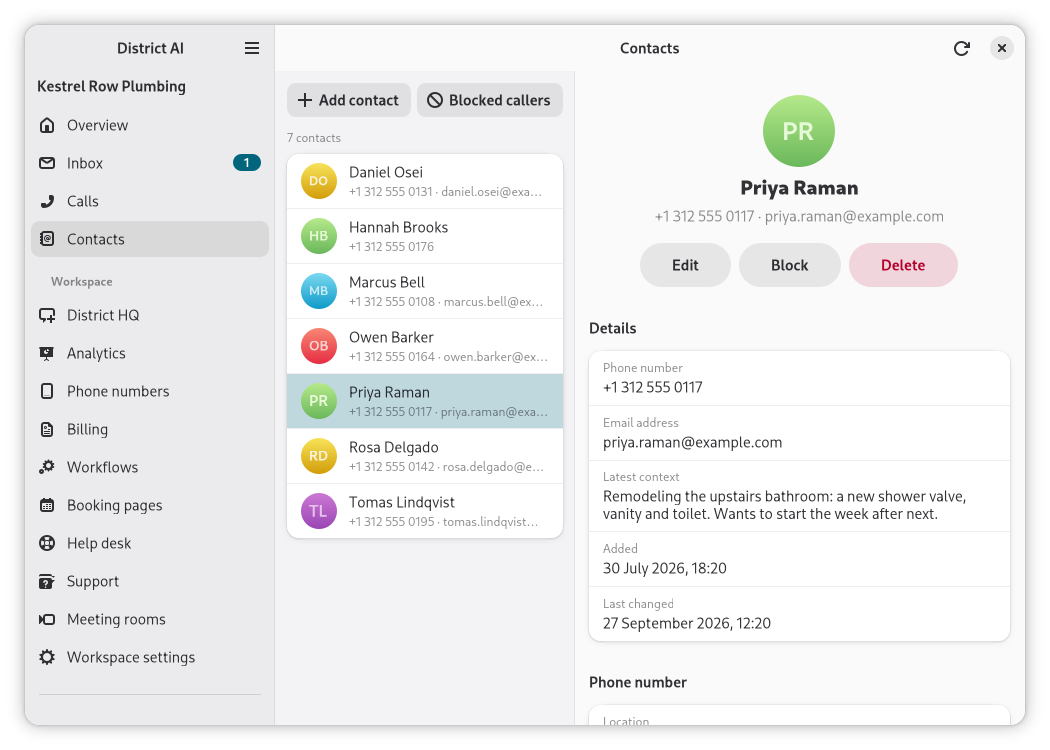
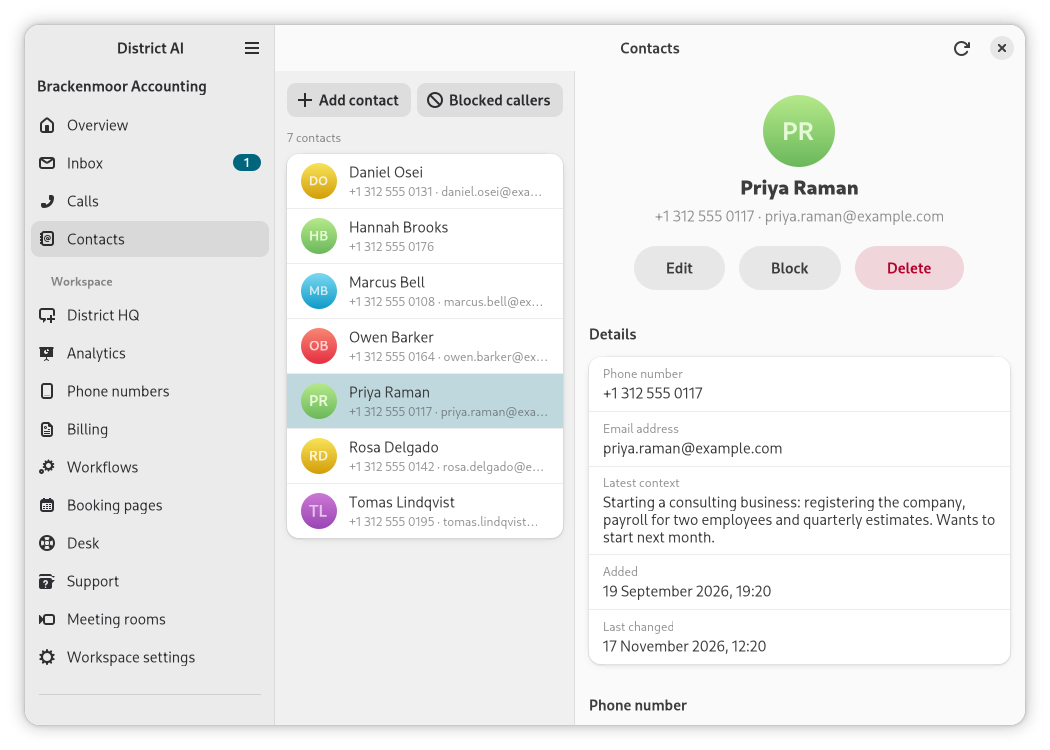
README: badges, a one-line summary and a quick start at the top; ROADMAP.md (#114)
* README: badges, a one-line summary and a quick start at the top; ROADMAP.md

The top of the README now carries the OpenSSF Best Practices, Scorecard,
release, license and CI badges, one sentence on what the app is, the call
log as the hero, a three-line quick start with the .deb, and links to
Distronode, the organization, the CHANGELOG and the new roadmap. The
contacts screenshot, already in the repository, joins the call screenshot.

ROADMAP.md (OpenSSF silver, documentation_roadmap): the repository has no
open issues, so it is taken from its own unfinished items, each named with
its source: the two features under [Unreleased] marked "Not part of 3.4.0",
other architectures, and the open question on use without an account.

* README: the quick start changes to the download directory first (CodeRabbit #114)

* Store screenshots: an invented accounting firm instead of a plumbing business

The README's hero is the store call-log picture, so the store screenshots
test now answers for Brackenmoor Accounting, an invented firm: the same
five scenes, people and 555-01xx numbers, with calls, texts and contact
notes about bookkeeping, tax returns and payroll. All five pictures are
drawn again from the test and recompressed losslessly.

* Store screenshots: one status for Owen's 1099-B in the contact fixture

The note is not drawn in any screenshot, so the pictures are unchanged.

---------

diff --git a/crates/district-app/tests/store_screenshots.rs b/crates/district-app/tests/store_screenshots.rs
@@ -3,8 +3,8 @@
 //!
 //! Like the smoke test (`tests/smoke.rs`), this builds the whole window
 //! against a scripted stand-in for the effect runner and answers what the app
-//! asks for. Unlike it, the answers are written here, for an invented plumbing
-//! business, so that the pictures read like a working day rather than like
+//! asks for. Unlike it, the answers are written here, for an invented accounting
+//! firm, so that the pictures read like a working day rather than like
 //! test data: every business, person and email address in them is made up,
 //! and every phone number is in the fictional 555-0100 to 555-0199 range.
 //!
@@ -60,8 +60,8 @@ const WIDTH: i32 = 1000;
 const HEIGHT: i32 = 700;
 
 /// The invented business, and its one workspace.
-const WORKSPACE: &str = "ws-kestrel-row";
-const BUSINESS: &str = "Kestrel Row Plumbing";
+const WORKSPACE: &str = "ws-brackenmoor";
+const BUSINESS: &str = "Brackenmoor Accounting";
 
 /// The scripted stand-in for the effect runner: every effect is kept for the
 /// script to answer, or not.
@@ -353,8 +353,8 @@ const CALLS: [Call<'static>; 8] = [
         direction: "inbound",
         minutes_ago: 190,
         seconds: 142,
-        summary: "Kitchen sink leaking under the cabinet. Booked a repair visit for \
-                  Thursday between 9 and 11 am.",
+        summary: "New bakery owner. Booked a consultation on her books and taxes for \
+                  Thursday at 10 am.",
     },
     Call {
         id: "call-weekend",
@@ -363,7 +363,7 @@ const CALLS: [Call<'static>; 8] = [
         direction: "inbound",
         minutes_ago: 230,
         seconds: 48,
-        summary: "Asked whether we come out for emergencies on weekends. Took a number \
+        summary: "Asked whether we file extensions for personal returns. Took a number \
                   for a call back.",
     },
     Call {
@@ -373,7 +373,7 @@ const CALLS: [Call<'static>; 8] = [
         direction: "outbound",
         minutes_ago: 1_210,
         seconds: 245,
-        summary: "Talked through replacing the water heater. The quote follows by text.",
+        summary: "Went through what is missing for his amended return. The list follows by text.",
     },
     Call {
         id: "call-missed",
@@ -391,8 +391,8 @@ const CALLS: [Call<'static>; 8] = [
         direction: "inbound",
         minutes_ago: 1_420,
         seconds: 220,
-        summary: "Wants a quote for a bathroom remodel. Transferred to the office to book \
-                  a site visit.",
+        summary: "Wants help registering her consulting business and setting up payroll. \
+                  Transferred to a partner.",
     },
     Call {
         id: "call-daniel",
@@ -401,7 +401,7 @@ const CALLS: [Call<'static>; 8] = [
         direction: "inbound",
         minutes_ago: 2_880,
         seconds: 110,
-        summary: "Low water pressure upstairs. Booked a visit for Monday morning.",
+        summary: "Received an IRS notice about last year's return. Booked a review for Monday.",
     },
     Call {
         id: "call-hannah",
@@ -410,7 +410,7 @@ const CALLS: [Call<'static>; 8] = [
         direction: "inbound",
         minutes_ago: 3_020,
         seconds: 125,
-        summary: "Outdoor faucet dripping since the frost. Sent a quote by text.",
+        summary: "Asked what to bring to her tax appointment. Sent the checklist by text.",
     },
     Call {
         id: "call-marcus",
@@ -431,12 +431,12 @@ fn rosa_call() -> Value {
     call["disposition"] = json!("booked");
     call["analysis"] = json!({
         "keyPoints": [
-            "Leak under the kitchen sink since this morning",
-            "The shut-off valve is closed for now"
+            "Opened a bakery in March and keeps her receipts in a spreadsheet",
+            "Has not made an estimated tax payment yet"
         ],
         "objections": [],
-        "topics": ["Repair", "Booking"],
-        "actionItems": ["Bring a replacement trap and supply lines"],
+        "topics": ["New client", "Booking"],
+        "actionItems": ["Send the new-client intake form and document checklist"],
         "followUpSuggested": false
     });
     call["followUp"] = json!({
@@ -449,18 +449,18 @@ fn rosa_call() -> Value {
 }
 
 /// The text the receptionist sent Rosa after her call.
-const FOLLOW_UP: &str = "Hi Rosa, this is Kestrel Row Plumbing. Your visit is booked for \
-                         Thursday between 9 and 11 am. Reply here if anything changes.";
+const FOLLOW_UP: &str = "Hi Rosa, this is Brackenmoor Accounting. Your consultation is booked \
+                         for Thursday at 10 am. Reply here if anything changes.";
 
 /// Rosa's call, as the service writes a transcript: a line a turn.
 const TRANSCRIPT: &str = "\
-Receptionist: Thanks for calling Kestrel Row Plumbing, this is Ava. How can I help?
-Caller: Hi, my kitchen sink is leaking under the cabinet. It started this morning and \
-it's getting worse.
-Receptionist: I'm sorry to hear that. Have you been able to turn the water off?
-Caller: Yes, I closed the valve under the sink, so it's stopped for now.
-Receptionist: That was the right thing to do. A plumber can come on Thursday between \
-9 and 11 am. Would that work?
+Receptionist: Thanks for calling Brackenmoor Accounting, this is Ava. How can I help?
+Caller: Hi, I opened a bakery this spring and I need help with my books and taxes. \
+I haven't paid anything quarterly yet.
+Receptionist: You're in the right place. Is that ongoing bookkeeping, this year's taxes, or both?
+Caller: Both, I think. Right now my receipts are all in a spreadsheet.
+Receptionist: That's a good start. One of our accountants can meet with you on Thursday \
+at 10 am to go through it. Would that work?
 Caller: Thursday morning is perfect.
 Receptionist: You're booked in, and I'll text you the details now. Is there anything \
 else I can help with?
@@ -487,12 +487,12 @@ fn overview() -> Value {
         "workspaceId": WORKSPACE,
         "role": "client",
         "metrics": {
-            "totalCalls": 1_284,
-            "callsThisWeek": 63,
-            "totalContacts": 342,
-            "avgDuration": 154
+            "totalCalls": 864,
+            "callsThisWeek": 41,
+            "totalContacts": 318,
+            "avgDuration": 192
         },
-        "avgDurationLabel": "2m 34s",
+        "avgDurationLabel": "3m 12s",
         "recentCalls": recent
     })
 }
@@ -550,7 +550,7 @@ fn conversations() -> Value {
                 Some(("contact-rosa", "Rosa Delgado")),
                 "+13125550142",
                 (
-                    "Perfect, see you Thursday. Should I clear out the cabinet first?",
+                    "Perfect, see you Thursday. Should I bring my bank statements too?",
                     "inbound",
                     6,
                 ),
@@ -559,14 +559,14 @@ fn conversations() -> Value {
             conversation(
                 None,
                 "+13125550189",
-                ("Do you come out for emergencies on weekends?", "inbound", 35),
+                ("Do you file extensions for personal returns?", "inbound", 35),
                 1,
             ),
             conversation(
                 Some(("contact-priya", "Priya Raman")),
                 "+13125550117",
                 (
-                    "Thanks for the quote. Could you start the week after next?",
+                    "Thanks for the quote. Could payroll start on the first of the month?",
                     "inbound",
                     140,
                 ),
@@ -576,7 +576,7 @@ fn conversations() -> Value {
                 Some(("contact-owen", "Owen Barker")),
                 "+13125550164",
                 (
-                    "We can install the new water heater on Monday morning. Does 8 am work?",
+                    "We still need your brokerage 1099-B to file the amendment. Can you upload it?",
                     "outbound",
                     1_190,
                 ),
@@ -586,7 +586,7 @@ fn conversations() -> Value {
                 Some(("contact-daniel", "Daniel Osei")),
                 "+13125550131",
                 (
-                    "Thanks, the pressure is back to normal upstairs.",
+                    "Thanks, the IRS letter makes sense now. See you Monday.",
                     "inbound",
                     2_700,
                 ),
@@ -634,19 +634,19 @@ fn rosa_thread() -> Value {
                 185,
                 FOLLOW_UP,
             ),
-            text("sms-2", "inbound", 41, "Thank you! Is there a charge for the visit itself?"),
+            text("sms-2", "inbound", 41, "Thank you! Is there a charge for the first meeting?"),
             text(
                 "sms-3",
                 "outbound",
                 30,
-                "The service call fee is $79, and it comes off the bill if you go ahead \
-                 with the repair.",
+                "The first consultation is free, and we send a fixed quote for the year \
+                 after it.",
             ),
             text(
                 "sms-4",
                 "inbound",
                 6,
-                "Perfect, see you Thursday. Should I clear out the cabinet first?",
+                "Perfect, see you Thursday. Should I bring my bank statements too?",
             ),
         ],
         "pageInfo": {"hasMore": false, "oldest": ago(190), "oldestId": "call-rosa"}
@@ -680,11 +680,12 @@ fn contact(name: &str, number: &str, email: bool, context: Option<&str>) -> Valu
 }
 
 fn contacts() -> ContactListResponse {
-    let owen = "Water heater is 14 years old and losing pressure. Quoted for a \
-                replacement, to be installed on Monday at 8 am.";
-    let priya = "Remodeling the upstairs bathroom: a new shower valve, vanity and \
-                 toilet. Wants to start the week after next.";
-    let rosa = "Kitchen sink leak. Visit booked for Thursday between 9 and 11 am.";
+    let owen = "Amending his 2025 return. Waiting on the 1099-B from his brokerage \
+                before filing.";
+    let priya = "Starting a consulting business: registering the company, payroll for \
+                 two employees and quarterly estimates. Wants to start next month.";
+    let rosa = "New bakery owner. Consultation on bookkeeping and quarterly taxes, \
+                Thursday at 10 am.";
     from(json!({
         "success": true,
         "contacts": [
@@ -907,7 +908,7 @@ fn inbox_scene(store: &Store) {
         .downcast::<gtk::TextView>()
         .expect("the composer")
         .buffer()
-        .set_text("Yes please, that gives us room to work. See you Thursday!");
+        .set_text("Yes please, the last three months would help. See you Thursday!");
     store.pump();
     assert!(store.shows("Rosa Delgado"));
     store.forget();
@@ -970,7 +971,7 @@ fn call_scene(store: &Store) {
         result: Ok(from(json!({
             "success": true,
             "callId": "call-store-owen",
-            "roomName": "direct_ws-kestrel-row-call-store-owen",
+            "roomName": "direct_ws-brackenmoor-call-store-owen",
             "token": "store-screenshot-token",
             "url": "wss://media.example.com"
         }))),

diff --git a/README.md b/README.md
@@ -6,25 +6,37 @@
 
 # District AI for Linux
 
-[![OpenSSF Scorecard](https://api.scorecard.dev/projects/github.com/distronode-corporation/district-linux/badge)](https://scorecard.dev/viewer/?uri=github.com/distronode-corporation/district-linux)
 [![OpenSSF Best Practices](https://www.bestpractices.dev/projects/15874/badge)](https://www.bestpractices.dev/projects/15874)
+[![OpenSSF Scorecard](https://api.scorecard.dev/projects/github.com/distronode-corporation/district-linux/badge)](https://scorecard.dev/viewer/?uri=github.com/distronode-corporation/district-linux)
 [![Latest release](https://img.shields.io/github/v/release/distronode-corporation/district-linux?label=release)](https://github.com/distronode-corporation/district-linux/releases/latest)
+[![License: Apache-2.0](https://img.shields.io/github/license/distronode-corporation/district-linux)](LICENSE)
+[![CI](https://github.com/distronode-corporation/district-linux/actions/workflows/ci.yml/badge.svg?branch=main)](https://github.com/distronode-corporation/district-linux/actions/workflows/ci.yml)
 
-A native GTK 4 and libadwaita desktop client for District AI, the AI voice
-receptionist from Distronode.
+A native GTK 4 and libadwaita desktop app for District AI, the AI voice receptionist from
+[Distronode](https://distronode.com) that answers a business's phone calls.
 
 ![The call log, with a call's summary and transcript](crates/district-app/data/screenshots/call-log.png)
 
-> **Status: 3.4.0 is the current release**, as a .deb and a Flatpak bundle for
-> x86_64, both with calls, on the
-> [Releases](https://github.com/distronode-corporation/district-linux/releases/latest)
-> page (see [Install](#install)). Calls on the desktop need a build with the
-> `voice` feature, as both packages are; a default build from source has
-> everything else, and says so where calls would be.
+**Quick start** on Ubuntu 24.04, Debian 13 or newer, with the `.deb` from the
+[latest release](https://github.com/distronode-corporation/district-linux/releases/latest)
+(the Flatpak is in [Install](#install)):
 
-**Links:** [project page](https://www.distronode.com/open-source/district-linux),
-[GitLab mirror](https://gitlab.com/distronode-corporation/district-linux) (read-only
-mirror; issues and pull requests live on GitHub), [CHANGELOG](CHANGELOG.md).
+```
+cd ~/Downloads    # or wherever your browser saved the .deb
+sudo apt install ./district-ai_3.4.0-1_amd64.deb
+district-ai       # then press "Sign in with your browser"
+```
+
+> **Status: 3.4.0 is the current release**, as a .deb and a Flatpak bundle for x86_64, both
+> with calls. A default build from source has everything but calls, and says so where calls
+> would be.
+
+**Links:** [Distronode](https://distronode.com) ·
+[project page](https://www.distronode.com/open-source/district-linux) ·
+[Distronode on GitHub](https://github.com/distronode-corporation) ·
+[CHANGELOG](CHANGELOG.md) · [ROADMAP](ROADMAP.md) ·
+[GitLab mirror](https://gitlab.com/distronode-corporation/district-linux) (read only; issues
+and pull requests live on GitHub)
 
 ## What it does
 
@@ -69,7 +81,10 @@ use them with, so we are asking before we build anything:
   <img alt="The overview, with the workspace's numbers and recent calls" src="crates/district-app/data/screenshots/overview.png" width="49%">
 </p>
 
-![A call placed from the desktop, under way over the contact's details](crates/district-app/data/screenshots/call.png)
+<p>
+  <img alt="A call placed from the desktop, under way over the contact's details" src="crates/district-app/data/screenshots/call.png" width="49%">
+  <img alt="The contacts list, with a contact's details" src="crates/district-app/data/screenshots/contacts.png" width="49%">
+</p>
 
 ## Platform support
 

diff --git a/ROADMAP.md b/ROADMAP.md
@@ -1,0 +1,29 @@
+# Roadmap
+
+The near-term plan for District AI for Linux. This repository has no open issues, so the list is
+taken from the repository's own unfinished items, each named with where it comes from. It has no
+dates: an item is done when the change that does it is merged and released, and it then leaves
+this list for [CHANGELOG.md](CHANGELOG.md). Anything here can change; open an issue to discuss an
+item or to propose a new one.
+
+## Near term
+
+- **Two-step verification and Delete account, released.** Both are merged and listed under
+  `[Unreleased]` in [CHANGELOG.md](CHANGELOG.md), marked "Not part of 3.4.0". The plan is to ship
+  them in the next release.
+- **Other Linux architectures.** The packages are x86_64 only; other architectures are "Not yet"
+  in the README's platform table. Calls link this project's own build of libwebrtc
+  ([`.github/workflows/libwebrtc.yml`](.github/workflows/libwebrtc.yml)), so another architecture
+  needs that build for it as well as the packages.
+
+## Open questions
+
+- **Using the app without a District AI account.** Today the app needs a District AI account to
+  sign in. Whether it can work without one, and what that would look like, is an open question
+  we are asking about before building anything (README, "Without an account with us";
+  [the discussion](https://github.com/distronode-corporation/.github/discussions/1)).
+
+## How the project is run
+
+Who decides what goes on this list, and how, is in the organization's
+[GOVERNANCE.md](https://github.com/distronode-corporation/.github/blob/main/GOVERNANCE.md).

diff --git a/CONTRIBUTING.md b/CONTRIBUTING.md
@@ -503,7 +503,7 @@ GNOME Software show on the app's page. They are the PNGs in
 `crates/district-app/data/screenshots/`, and a second test beside the smoke
 test draws them, `crates/district-app/tests/store_screenshots.rs`: the real
 window against the same kind of scripted runner, answered with an invented
-plumbing business's calls, messages and contacts written in the test (every
+accounting firm's calls, messages and contacts written in the test (every
 person in it made up, every number in the 555-0100 to 555-0199 range), rather
 than with the contract fixtures, whose names read like test data. Each scene is
 a window of 1000 by 700, in the light style, with the rounded corners and the shadow a compositing desktop
